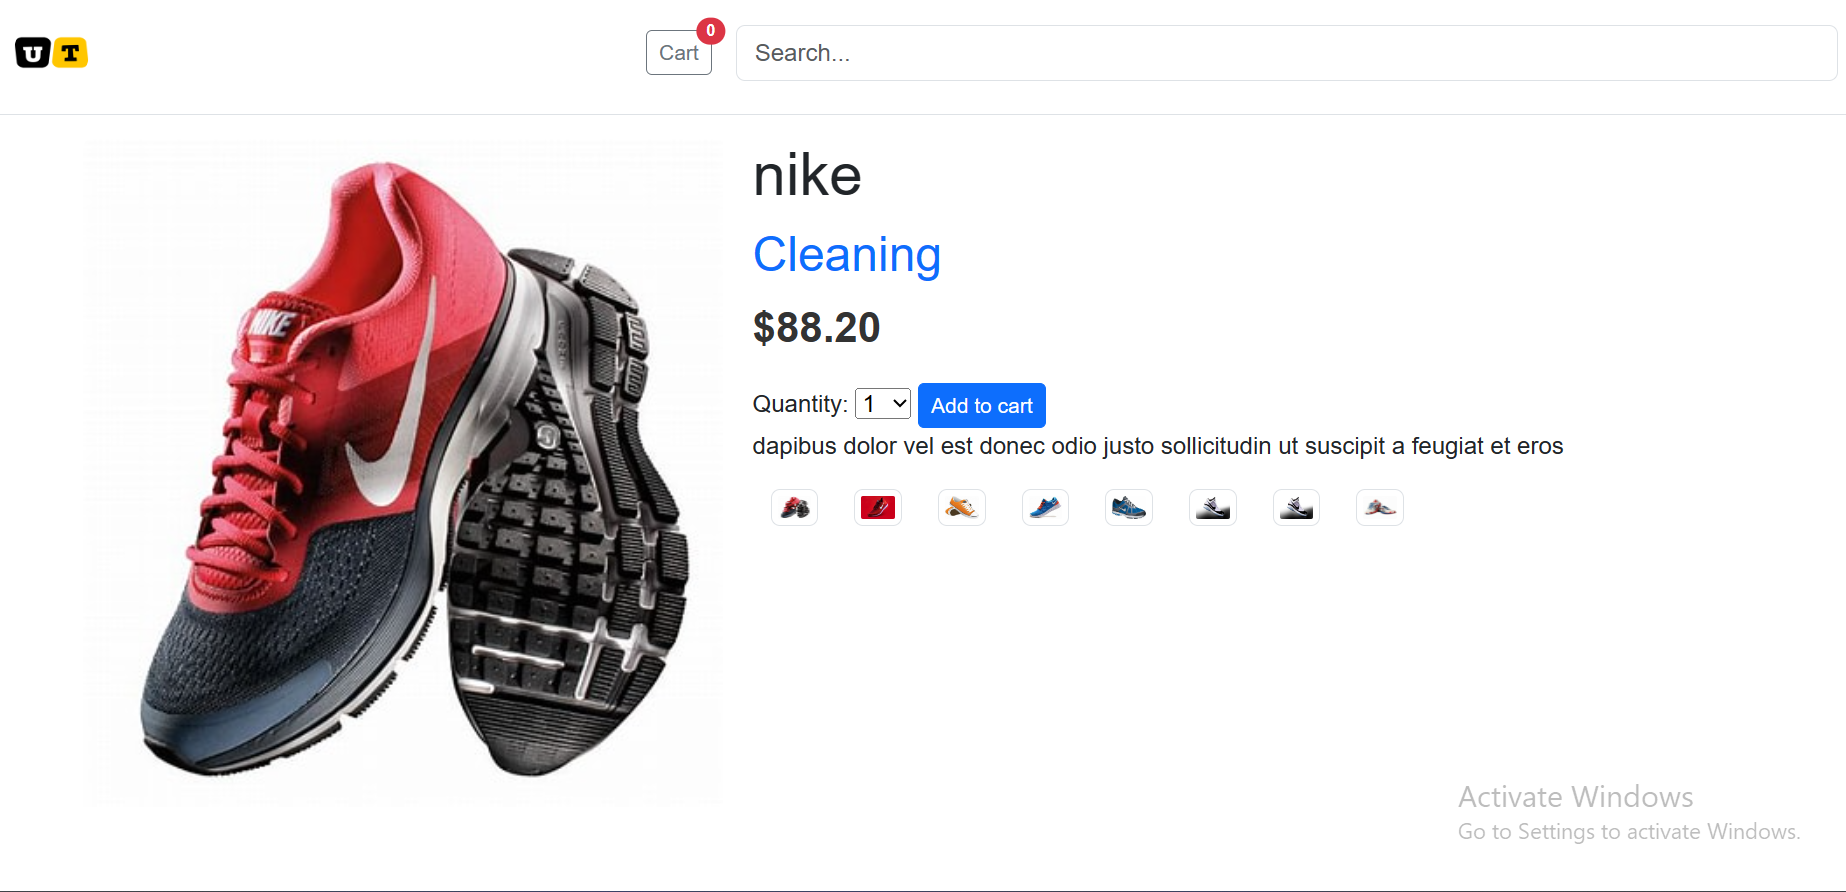
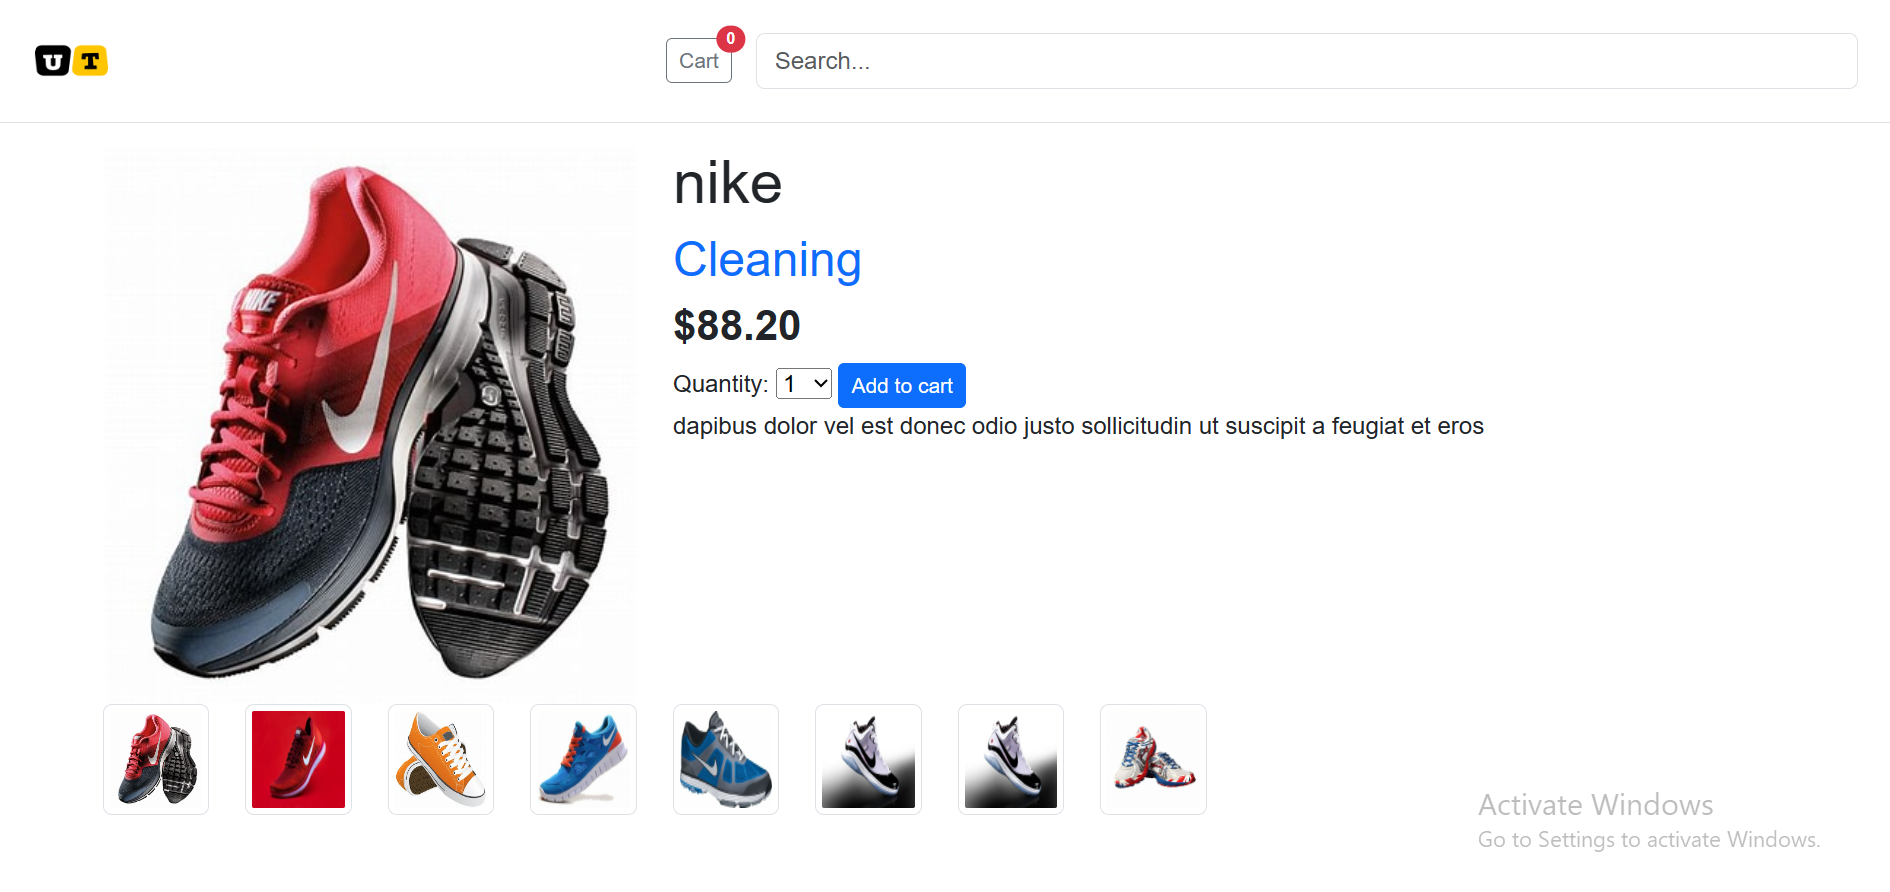
adding recommender system

diff --git a/templates/store/product/detail.html b/templates/store/product/detail.html
@@ -2,28 +2,54 @@
 {% load static %}
 {% block title %} {{ product.title }} {% endblock %}
 {% block content %}
- <div class="product-detail">
-    {% with image=product.images.all|first %}
-      <img class="rounded" src="{% if image %}{{ image.image.url }}{% else %}
-                                {% static 'img/no_image.png' %}{% endif %}">
-    {% endwith %}
-    <h1>{{ product.title }}</h1>
-    <h2>
-      <a href="{{ product.collection.get_absolute_url }}"> {{ product.collection }} </a>
-    </h2>
-    <p class="price">${{ product.unit_price }}</p>
-    <form action="{% url 'store:cart_add' product.id %}" method="post">
-      {{ cart_product_form }}
-      {% csrf_token %}
-      <button class="btn btn-sm btn-primary" type="submit"> Add to cart </button>
-    </form>
-    {{ product.description|linebreaks }}
+ <div class="row">
+    <div class="col-4">
+      {% with image=product.images.all|first %}
+        <img class="rounded w-100 h-100" src="{% if image %}{{ image.image.url }}{% else %}
+                                  {% static 'img/no_image.png' %}{% endif %}">
+      {% endwith %}
+    </div>
+
+    <div class="col-8">
+      <h1>{{ product.title }}</h1>
+      <h2>
+        <a href="{{ product.collection.get_absolute_url }}"> {{ product.collection }} </a>
+      </h2>
+      <p class="h3 fw-bold" >${{ product.unit_price }}</p>
+      <form action="{% url 'store:cart_add' product.id %}" method="post">
+        {{ cart_product_form }}
+        {% csrf_token %}
+        <button class="btn btn-sm btn-primary" type="submit"> Add to cart </button>
+      </form>
+      {{ product.description|linebreaks }}
+    </div>
   </div>
+
   <div class="row" data-bs-spy="scroll">
     {% for image in product.images.all %}
-    <div class="col-2 col-lg-1">
-      <img src="{{image.image.url}}" class="img-thumbnail img-fluid img-thumbnail h-75 w-100" alt="{{product.title}}">
+    <div class="col-2 col-md-1 ">
+      <img src="{{image.image.url}}" class="img-fluid img-thumbnail h-100 w-100" alt="{{product.title}}">
     </div>
     {% endfor %}
   </div>
+
+  {% if recommended_products %}
+  <br/>
+  <h3>People who bought "{{product.title}}" also bought</h3>
+    <div class="row text-center">
+      {% for p in recommended_products %}
+        <div class="col-2">
+        <a href="{{ p.get_absolute_url }}">
+          {% with image=p.images.all|first %}
+            <img class="img-fluid img-thumbnail h-100 w-100" src="{% if image %}{{ image.image.url }}{% else %}
+                                      {% static 'img/no_image.png' %}{% endif %}">
+          {% endwith %}
+        </a>
+        <p><a href="{{ p.get_absolute_url }}">{{ p.title }}</a></p>
+        </div>
+      {% endfor %}
+    </div>
+  {% endif %}
+  
+  
 {% endblock %}

diff --git a/templates/store/cart/detail.html b/templates/store/cart/detail.html
@@ -55,6 +55,25 @@
     </tr>
     </tbody>
     </table>
+
+    {% if recommended_products %}
+        <div class="recommendations cart">
+        <h3>People who bought this also bought</h3>
+        {% for p in recommended_products %}
+            <div class="item">
+            <a href="{{ p.get_absolute_url }}">
+                {% with image=p.images.all|first %}
+                <img class="rounded" src="{% if image %}{{ image.image.url }}{% else %}
+                                          {% static 'img/no_image.png' %}{% endif %}">
+                {% endwith %}
+            </a>
+            <p><a href="{{ p.get_absolute_url }}">{{ p.title }}</a></p>
+            </div>
+        {% endfor %}
+        </div>
+    {% endif %}
+
+
     <p class="text-right">
         <a href="{% url 'store:product_list' %}" class="button light">Continue shopping</a>
         <a href="{% url 'store:order_create' %}" class="button">Checkout</a>

diff --git a/store/recommender.py b/store/recommender.py
@@ -1,0 +1,50 @@
+import redis
+from django.conf import settings
+from .models import Product
+# connect to redis
+r = redis.Redis(host=settings.REDIS_HOST,
+                port=settings.REDIS_PORT,
+                db=settings.REDIS_DB)
+class Recommender:
+    def get_product_key(self, id):
+        return f'product:{id}:purchased_with'
+    def products_bought(self, products):
+        product_ids = [p.id for p in products]
+        for product_id in product_ids:
+            for with_id in product_ids:
+            # get the other products bought with each product
+                if product_id != with_id:
+                # increment score for product purchased together
+                    r.zincrby(self.get_product_key(product_id),1, with_id)
+    
+    def suggest_products_for(self, products, max_results=6):
+        product_ids = [p.id for p in products]
+        if len(products) == 1:
+        # only 1 product
+            suggestions = r.zrange(
+            self.get_product_key(product_ids[0]),
+            0, -1, desc=True)[:max_results]
+        else:
+        # generate a temporary key
+            flat_ids = ''.join([str(id) for id in product_ids])
+            tmp_key = f'tmp_{flat_ids}'
+            # multiple products, combine scores of all products
+            # store the resulting sorted set in a temporary key
+            keys = [self.get_product_key(id) for id in product_ids]
+            r.zunionstore(tmp_key, keys)
+            # remove ids for the products the recommendation is for
+            r.zrem(tmp_key, *product_ids)
+            # get the product ids by their score, descendant sort
+            suggestions = r.zrange(tmp_key, 0, -1,
+            desc=True)[:max_results]
+            # remove the temporary key
+            r.delete(tmp_key)
+        suggested_products_ids = [int(id) for id in suggestions]
+        # get suggested products and sort by order of appearance
+        suggested_products = list(Product.objects.filter(id__in=suggested_products_ids))
+        suggested_products.sort(key=lambda x: suggested_products_ids.index(x.id))
+        return suggested_products
+
+    def clear_purchases(self):
+        for id in Product.objects.values_list('id', flat=True):
+            r.delete(self.get_product_key(id))

diff --git a/store/views.py b/store/views.py
@@ -1,10 +1,12 @@
 from django.urls import reverse
-from .models import Order, OrderItem, Product,Collection
+from django.contrib.admin.views.decorators import staff_member_required
 from django.shortcuts import redirect, render,get_object_or_404
 from django.views.decorators.http import require_POST
-from django.contrib.admin.views.decorators import staff_member_required
-from .cart import Cart
+
+from .recommender import Recommender
+from .models import Order, OrderItem, Product,Collection
 from .forms import CartAddProductForm, OrderCreateForm, SearchForm
+from .cart import Cart
 
 def product_list(request,collection_slug=None):
     collection = None
@@ -19,7 +21,10 @@ def product_list(request,collection_slug=None):
 def product_detail(request,id,slug):
     product = get_object_or_404(Product, id=id, slug=slug, inventory__gte=1)
     cart_product_form = CartAddProductForm()
-    return render(request,"store/product/detail.html",{"product":product,'cart_product_form': cart_product_form})
+    r = Recommender()
+    recommended_products = r.suggest_products_for([product], 4)
+    return render(request,"store/product/detail.html",{"product":product,'recommended_products':\
+                                                       recommended_products,'cart_product_form': cart_product_form})
 
 def product_search(request):
     form = SearchForm()
@@ -54,7 +59,13 @@ def cart_detail(request):
     print("cart len:",len(cart))
     for item in cart:
         item['update_quantity_form'] = CartAddProductForm(initial={'quantity': item['quantity'],'override': True})
-    return render(request, 'store/cart/detail.html', {'cart': cart})
+    r = Recommender()
+    cart_products = [item['product'] for item in cart]
+    if(cart_products):
+        recommended_products = r.suggest_products_for(cart_products, max_results=4)
+    else:
+        recommended_products = []
+    return render(request, 'store/cart/detail.html', {'cart': cart,"recommended_products": recommended_products})
 
 
 def order_create(request):
@@ -77,3 +88,4 @@ def order_create(request):
 def admin_order_detail(request, order_id):
     order = get_object_or_404(Order, id=order_id)
     return render(request,'store/order/detail.html',{'order': order})
+

diff --git a/django_project/settings.py b/django_project/settings.py
@@ -37,7 +37,7 @@ INSTALLED_APPS = [
 ]
 
 MIDDLEWARE = [
-    # "django.middleware.cache.UpdateCacheMiddleware",
+    "debug_toolbar.middleware.DebugToolbarMiddleware",
     "django.middleware.security.SecurityMiddleware",
     "django.contrib.sessions.middleware.SessionMiddleware",
     "django.middleware.common.CommonMiddleware",
@@ -45,8 +45,6 @@ MIDDLEWARE = [
     "django.contrib.auth.middleware.AuthenticationMiddleware",
     "django.contrib.messages.middleware.MessageMiddleware",
     "django.middleware.clickjacking.XFrameOptionsMiddleware",
-    "debug_toolbar.middleware.DebugToolbarMiddleware",
-    # "django.middleware.cache.FetchFromCacheMiddleware",
 ]
 
 ROOT_URLCONF = 'django_project.urls'
@@ -117,8 +115,8 @@ USE_TZ = True
 # https://docs.djangoproject.com/en/4.2/howto/static-files/
 
 STATIC_URL = "static/"
-STATICFILES_DIRS = [BASE_DIR / "static"]
 STATIC_ROOT = BASE_DIR / "staticfiles"
+STATICFILES_DIRS = [BASE_DIR / "static"]
 STATICFILES_STORAGE = "django.contrib.staticfiles.storage.StaticFilesStorage"
 
 MEDIA_URL = "/media/"
@@ -145,3 +143,8 @@ STRIPE_PUBLISHABLE_KEY = env("STRIPE_PUBLISHABLE_KEY") # Publishable key
 STRIPE_SECRET_KEY = env("STRIPE_SECRET_KEY") # Secret key
 STRIPE_API_VERSION = '2022-08-01'
 STRIPE_WEBHOOK_SECRET= env("STRIPE_WEBHOOK_SECRET")
+
+
+REDIS_HOST = 'localhost'
+REDIS_PORT = 6379
+REDIS_DB = 1

diff --git a/store/admin.py b/store/admin.py
@@ -125,6 +125,7 @@ def export_to_csv(modeladmin, request, queryset):
     return response
 export_to_csv.short_description = 'Export to CSV'
 
+
 def order_payment(obj):
     url = obj.get_stripe_url()
     if obj.stripe_id:
@@ -137,6 +138,8 @@ order_payment.short_description = 'Stripe payment'
 def order_detail(obj):
     url = reverse('store:admin_order_detail', args=[obj.id])
     return mark_safe(f'<a href="{url}">View</a>')
+
+
 
 @admin.register(models.Order)
 class OrderAdmin(admin.ModelAdmin):
